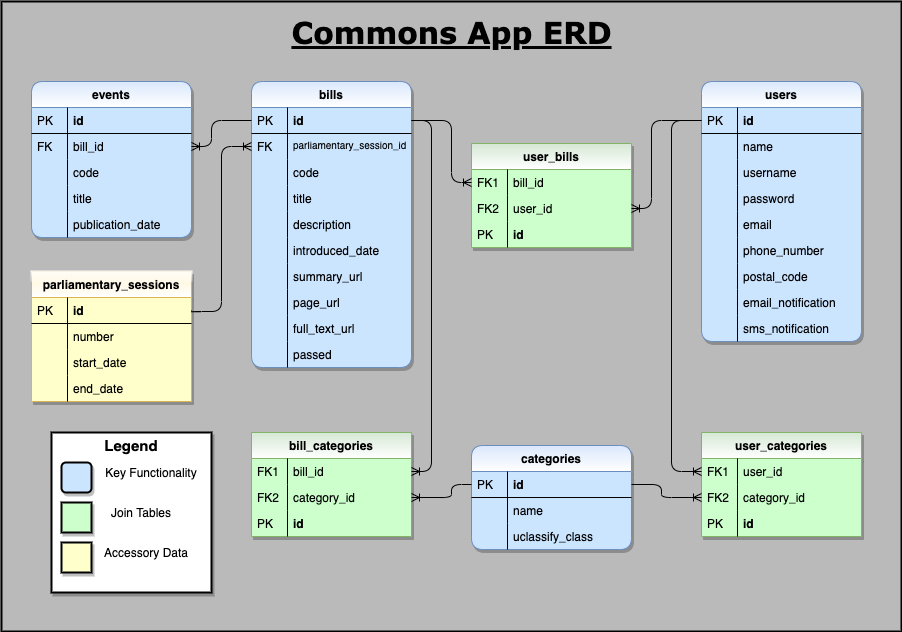
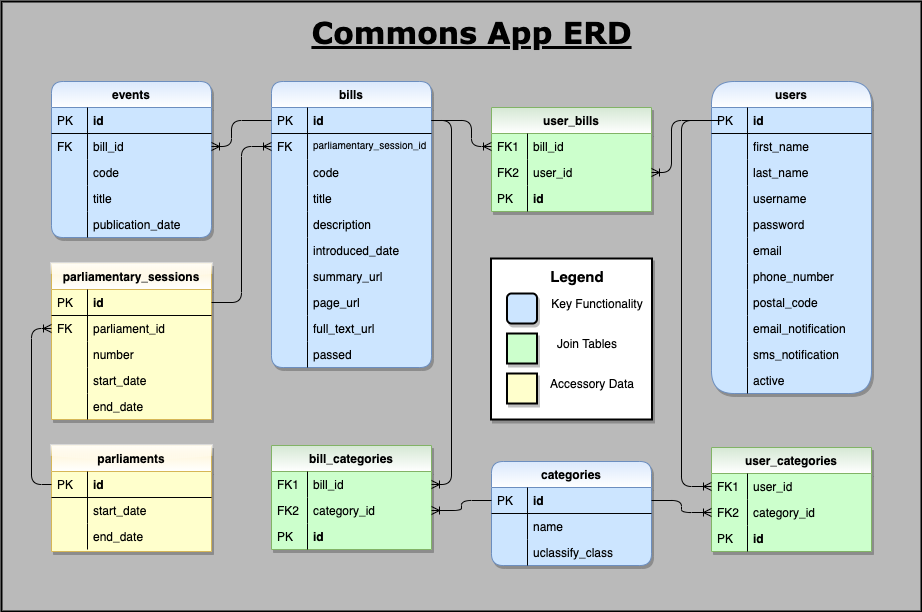
Added parliaments SQL table and associated GraphQL type, queries and mutation.

diff --git a/db/graphql/mutations.js b/db/graphql/mutations.js
@@ -19,6 +19,7 @@ const { GraphQLDate, GraphQLDateTime } = graphqldate;
 
 const { db } = require('../../src/pgAdaptor');
 const {
+  ParliamentType,
   ParliamentarySessionType,
   BillType,
   EventType,
@@ -33,10 +34,30 @@ const RootMutation = new GraphQLObjectType({
   name: 'RootMutationType',
   type: 'Mutation',
   fields: () => ({
-    id: { type: GraphQLNonNull(GraphQLInt) },
+    addParliament: {
+      type: ParliamentType,
+      args: {
+        start_date: { type: GraphQLDate },
+        end_date: { type: GraphQLDate },
+        created_at: { type: GraphQLDateTime }
+      },
+      resolve: async (parent, args, context, resolveInfo) => {
+        const query =
+          'INSERT INTO parliaments (start_date, end_date, created_at) VALUES ($1, $2, $3) RETURNING *';
+        const values = [args.start_date, args.end_date, new Date()];
+        try {
+          const response = await db.query(query, values);
+          return response[0];
+        } catch (err) {
+          console.error(`Failed to insert new parliament. ${err}`);
+          throw new Error(`Failed to insert new parliament. ${err}`);
+        }
+      }
+    },
     addParliamentarySession: {
       type: ParliamentarySessionType,
       args: {
+        parliament_id: { type: GraphQLNonNull(GraphQLInt) },
         number: { type: GraphQLNonNull(GraphQLString) },
         start_date: { type: GraphQLDate },
         end_date: { type: GraphQLDate },
@@ -44,8 +65,9 @@ const RootMutation = new GraphQLObjectType({
       },
       resolve: async (parent, args, context, resolveInfo) => {
         const query =
-          'INSERT INTO parliamentary_sessions (number, start_date, end_date, created_at) VALUES ($1, $2, $3, $4) RETURNING *';
+          'INSERT INTO parliamentary_sessions (parliament_id, number, start_date, end_date, created_at) VALUES ($1, $2, $3, $4, $5) RETURNING *';
         const values = [
+          args.parliament_id,
           args.number,
           args.start_date,
           args.end_date,

diff --git a/db/graphql/types.js b/db/graphql/types.js
@@ -14,14 +14,41 @@ const { GraphQLDate, GraphQLDateTime } = graphqldate;
 //GraphQL types are defined below
 
 // Parliamentary Sessions
+const ParliamentType = new GraphQLObjectType({
+  name: 'Parliament',
+  type: 'Query',
+  fields: () => ({
+    id: { type: GraphQLNonNull(GraphQLInt), sqlColumn: 'id' },
+    start_date: { type: GraphQLDate, sqlColumn: 'start_date' },
+    end_date: { type: GraphQLDate, sqlColumn: 'end_date' },
+    parliamentary_sessions: {
+      description: 'Parliamentary sessions for this parliament',
+      type: GraphQLList(BillType),
+      sqlJoin: (parliamentarySessionTable, parliamentTable, args) =>
+        `${parliamentarySessionTable}.parliament_id = ${parliamentTable}.id`
+    }
+  })
+});
+
+ParliamentType._typeConfig = {
+  sqlTable: 'parliaments',
+  uniqueKey: 'id'
+};
+
 const ParliamentarySessionType = new GraphQLObjectType({
   name: 'ParliamentarySession',
   type: 'Query',
   fields: () => ({
-    id: { type: GraphQLNonNull(GraphQLInt) },
-    number: { type: GraphQLNonNull(GraphQLString) },
-    start_date: { type: GraphQLDate },
-    end_date: { type: GraphQLDate },
+    id: { type: GraphQLNonNull(GraphQLInt), sqlColumn: 'id' },
+    parliament: {
+      type: ParliamentType,
+      sqlColumn: 'parliament_id',
+      sqlJoin: (parliamentarySessionTable, parliamentTable, args) =>
+        `${parliamentarySessionTable}.parliament_id = ${parliamentTable}.id`
+    },
+    number: { type: GraphQLNonNull(GraphQLString), sqlColumn: 'number' },
+    start_date: { type: GraphQLDate, sqlColumn: 'start_date' },
+    end_date: { type: GraphQLDate, sqlColumn: 'end_date' },
     bills: {
       description: 'Bills for this parliamentary session',
       type: GraphQLList(BillType),
@@ -270,6 +297,7 @@ UserCategoryType._typeConfig = {
   uniqueKey: 'id'
 };
 
+exports.ParliamentType = ParliamentType;
 exports.ParliamentarySessionType = ParliamentarySessionType;
 exports.BillType = BillType;
 exports.EventType = EventType;

diff --git a/bin/resetdb.js b/bin/resetdb.js
@@ -3,7 +3,6 @@ require('dotenv').config();
 
 // other dependencies
 const fs = require('fs');
-const chalk = require('chalk');
 const Client = require('pg-native');
 
 // PG connection setup
@@ -12,23 +11,23 @@ const client = new Client();
 
 // Loads the schema files from db/schema
 const runSchemaFiles = function() {
-  console.log(chalk.cyan(`-> Loading Schema Files ...`));
+  console.log(`-> Loading Schema Files ...`);
   const schemaFilenames = fs.readdirSync('./db/psql/schema');
 
   for (const fn of schemaFilenames) {
     const sql = fs.readFileSync(`./db/psql/schema/${fn}`, 'utf8');
-    console.log(`\t-> Running ${chalk.green(fn)}`);
+    console.log(`\t-> Running ${fn}`);
     client.querySync(sql);
   }
 };
 
 const runSeedFiles = function() {
-  console.log(chalk.cyan(`-> Loading Seeds ...`));
+  console.log(`-> Loading Seeds ...`);
   const schemaFilenames = fs.readdirSync('./db/psql/seeds');
 
   for (const fn of schemaFilenames) {
     const sql = fs.readFileSync(`./db/psql/seeds/${fn}`, 'utf8');
-    console.log(`\t-> Running ${chalk.green(fn)}`);
+    console.log(`\t-> Running ${fn}`);
     client.querySync(sql);
   }
 };
@@ -40,6 +39,6 @@ try {
   runSeedFiles();
   client.end();
 } catch (err) {
-  console.error(chalk.red(`Failed due to error: ${err}`));
+  console.error(`Failed due to error: ${err}`);
   client.end();
 }

diff --git a/db/graphql/queries.js b/db/graphql/queries.js
@@ -5,6 +5,7 @@ const { GraphQLObjectType, GraphQLList, GraphQLNonNull, GraphQLInt } = graphql;
 
 const { db } = require('../../src/pgAdaptor');
 const {
+  ParliamentType,
   ParliamentarySessionType,
   BillType,
   EventType,
@@ -17,6 +18,25 @@ const RootQuery = new GraphQLObjectType({
   name: 'RootQueryType',
   type: 'Query',
   fields: () => ({
+    parliaments: {
+      type: new GraphQLList(ParliamentType),
+      resolve: (parent, args, context, resolveInfo) => {
+        return joinMonster.default(resolveInfo, {}, (sql) => {
+          return db.query(sql);
+        });
+      }
+    },
+    parliament: {
+      type: ParliamentType,
+      args: { id: { type: GraphQLNonNull(GraphQLInt) } },
+      where: (parliamentTable, args, context) =>
+        `${parliamentTable}.id = ${args.id}`,
+      resolve: (parent, args, context, resolveInfo) => {
+        return joinMonster.default(resolveInfo, {}, (sql) => {
+          return db.query(sql);
+        });
+      }
+    },
     parliamentarySessions: {
       type: new GraphQLList(ParliamentarySessionType),
       resolve: (parent, args, context, resolveInfo) => {
